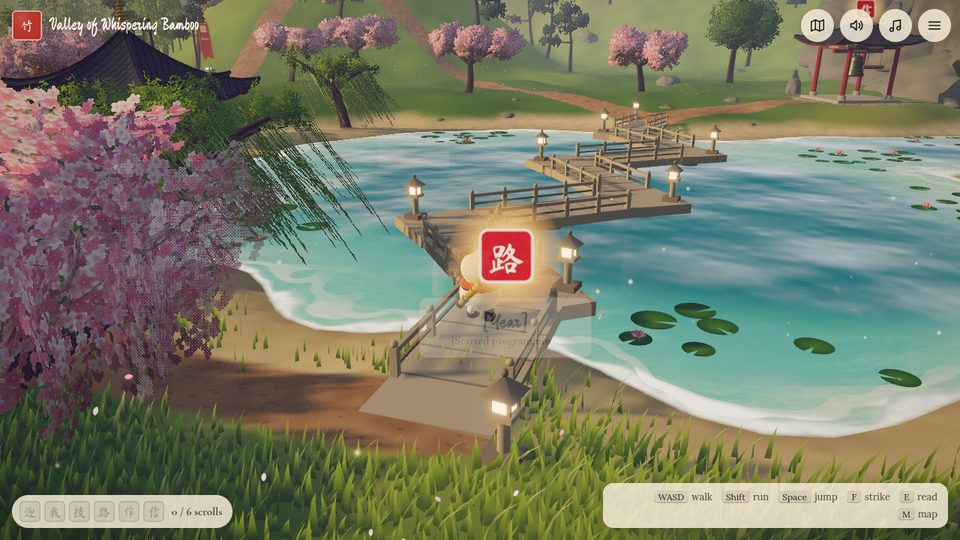
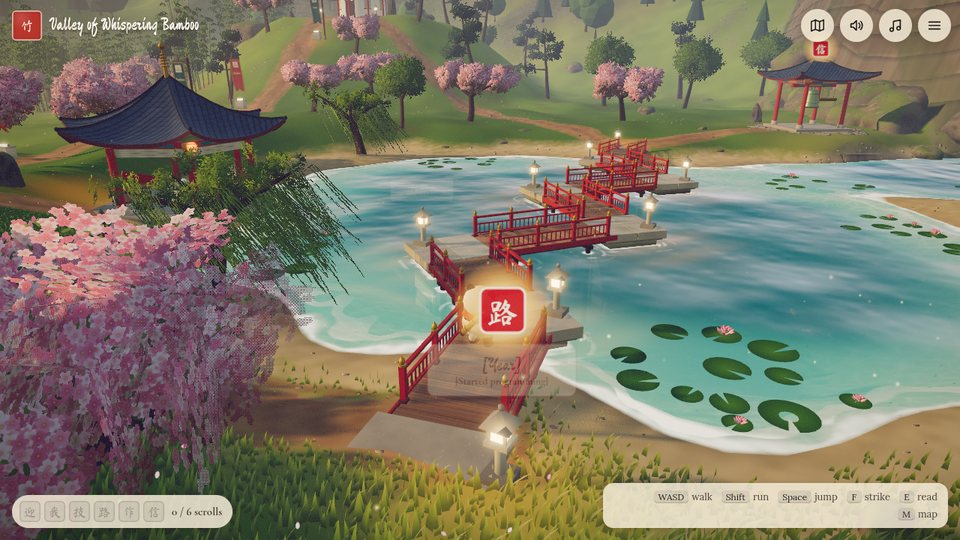
chore(release): v0.6.0
- Changelog, roadmap and design notes for the visual update
- README: new intro and screenshots (bridge, pagoda, falls, bamboo,
  scroll, map); refreshed link-preview image

diff --git a/docs/DESIGN.md b/docs/DESIGN.md
@@ -33,8 +33,10 @@ saturated but gentle colours, and rounded, friendly shapes.
 | Grass        | base `#3f6b2a` → mid `#6f9a3a` → sunlit tip `#b7c95a`                                                        |
 | Paths        | dirt `#b89468`, shore sand `#cdb58c`                                                                         |
 | Blossoms     | `#f6b7c8`, `#f19bb4`, `#fbd3dd`, bark `#5b3d2e`                                                              |
-| Bamboo       | `#7ea449`, `#5d8a3a`, nodes `#4a6b2c`                                                                        |
+| Bamboo       | green `#62883a` → `#9fbd5a`, golden `#c4a64c` with green grooves `#6c9340`, black `#2e2a2c`, nodes darker    |
 | Architecture | vermilion pillars `#b0322a`, slate tiles `#3d4a57`, glazed teal `#2f7d74`, gold `#d8a93b`, plaster `#efe4cf` |
+| Wood / stone | deck planks `#9a7250`, dark timber `#5a3a28`, dressed stone `#b3a893`, masonry `#8e8574`                     |
+| Lamp light   | paper lanterns `#e0412b` glowing orange, stone lantern windows `#ffd9a0`, light pools `#ff9a45`              |
 | Water        | shallow `#6fc3b8` → deep `#1f5d6b`, foam `#f4f1e6`                                                           |
 | UI           | rice paper `#f3ead6`, ink `#1e1a18`, seal red `#b8352b`                                                      |
 
@@ -43,6 +45,41 @@ Typography: **Ma Shan Zheng** (brush, subset to the glyphs we use) for titles an
 
 All geometry, textures and audio are generated in code. There are no downloaded models,
 images or sound files, which keeps the build tiny and the licensing simple.
+
+### Surfaces and light
+
+- **Finishes.** Every building part is merged into one mesh per material, so the parts
+  carry a per-vertex _finish_: lacquer (soft sheen, brush marks), wood (grain along the
+  part's longest axis), stone (grain, speckles, moss on top) or gilding. The finish is
+  implied by the palette colour (`architecture/palette.ts`) or named explicitly. All parts
+  darken where they meet the ground and grow an algae line just above the lake.
+- **Reflections.** A golden-hour sky is rendered once into a prefiltered environment map
+  (`render/environment.ts`) for lacquer, glazed tiles, gold and the bronze bell only; the
+  rest of the valley keeps its hand-tuned hemisphere light.
+- **Stone.** Rocks are soft convex hulls cut by random planes (bevelled facets), with
+  grooves, strata and moss in their vertex colours and grain, lichen, cracks and wet bases
+  in the rock material. Cliffs are shaded in the terrain shader: strata, ledges, joints,
+  seep stains and derivative bump mapping.
+- **Edges between materials.** Paths and yards are looked up in the splat map with a
+  meandering offset (`GROUND_WARP_GLSL`) shared by the ground, the grass and the flowers,
+  so their ragged edges agree. Verges are trampled and dry; paths have a darker tread and
+  pebbly margins; paving is laid stone by stone and frays at its edge; grass thins out
+  onto the beach.
+- **Lantern light.** Lanterns glow in their own colour with a flicker, halos are one
+  additive point cloud, light pools are painted into the terrain's detail map (and read
+  by the grass and the lake), and on High three real point lights follow the lanterns
+  nearest the panda. The number of lights is fixed at start so a preset change never
+  recompiles shaders.
+- **Bamboo.** Culms are light tubes; node rings, the waxy bloom and the striped grooves of
+  golden bamboo are drawn in the shader from an internode coordinate, so detail costs no
+  triangles.
+
+### Life
+
+Koi and lotus in the lake, petals drifting from the blossom trees, golden motes in the
+light, butterflies over the meadows near the panda (they flee when it comes close),
+dragonflies over the water and a flock of birds circling high above. All of it is
+instanced and animated in shaders, driven by a few dozen transforms per frame.
 
 ## 3. The valley (world layout)
 
@@ -77,6 +114,13 @@ panda looking north. Water level is `y = 0`.
 
 The world is **content driven**: the number of project banners, skill dummies and bridge
 milestones follows `src/content/portfolio.ts`.
+
+**Water.** A stream rises in a spring pool in the north-east hills and crosses the plateau
+in a bed carved into the heightfield (it only ever runs downhill; a unit test checks it),
+then pours over a notch in the cliff. The cliff steps back into a rock alcove there and
+drops straight into a deep plunge pool joined to the lake, so the falls have a visible
+source and land in water. The bridge crosses the lake on timber pile bents and stone
+piers, each ringed with foam.
 
 ## 4. The panda
 
@@ -175,10 +219,10 @@ Target 60 fps on a mid-range laptop (integrated GPU) at the _Medium_ preset.
 | Medium | ≤ 1.5       | 1024²   | 36k          | 2×   | + bloom                         |
 | High   | ≤ 2.0       | 2048²   | 70k          | 4×   | + bloom                         |
 
-The whole valley renders in roughly 170 draw calls: static architecture is merged per
-material, vegetation is instanced and the grass is a single instanced draw.
+The whole valley renders in roughly 200 draw calls: static architecture is merged per
+material, vegetation and wildlife are instanced and the grass is a single instanced draw.
 
-The preset is chosen automatically (mobile → Low, otherwise Medium) and adapts down if
+The preset is chosen automatically (phones → Medium, otherwise High) and adapts down if
 the frame rate stays low. Visitors can override it from the settings menu.
 
 ## 10. Accessibility and reach

diff --git a/CHANGELOG.md b/CHANGELOG.md
@@ -6,6 +6,53 @@ and this project adheres to [Semantic Versioning](https://semver.org/spec/v2.0.0
 
 ## [Unreleased]
 
+## [0.6.0] - 2026-09-30
+
+A visual update: a waterfall with a real source, richer stone, wood and bamboo, warm
+lantern light, softer edges between materials and a little more life in the valley.
+
+### Added
+
+- A stream crosses the plateau from a spring pool in the hills and pours over a notch in
+  the cliff into a deep plunge pool: glassy at the lip, aerated lower down, with a veil of
+  spray, churning white water, foam trails, mist, wet dark rock and hand-placed boulders.
+- Warm lantern light: paper and stone lanterns glow in their own colour with a candle
+  flicker and a soft halo, light pools warm the ground, grass and water around them, and
+  on High a few real lights follow the lanterns nearest the panda.
+- Material finishes for all architecture: lacquer with a soft sheen, wood grain, stone
+  grain with moss, worn gilding, grime where parts meet the ground and an algae line at
+  the water; glazed roof tiles vary tile by tile. A prefiltered golden-hour sky gives
+  glossy surfaces something to reflect.
+- The zig-zag bridge rebuilt in timber: plank decks on pile bents, stone landings on
+  masonry piers, vermilion railings with gilded finials, and foam rings around every post
+  and pier in the water.
+- Bamboo with node rings, a waxy bloom under each node, branches with drooping leaf
+  sprays, papery sheaths, young shoots and fallen leaves; golden bamboo with green
+  grooves frames the gate and black bamboo grows in the village.
+- Butterflies over the meadows (they flutter off when the panda comes close),
+  dragonflies darting over the lake and a flock of birds wheeling above the valley.
+- The map shows the stream, the falls and the bridge.
+- Screenshot angles for close-ups of bamboo, lanterns, rocks, path edges, the bridge,
+  the falls and the butterflies.
+
+### Changed
+
+- High quality is the default on desktop (phones start at Medium); adaptive quality still
+  steps down on slower devices.
+- The follow camera starts higher and farther back with a wider lens, so the panda walks
+  in the lower third with the valley opening up behind it; after the visitor orbits or
+  zooms, it eases back to that framing once the panda walks on.
+- Rocks are chiselled, faceted stones with bevelled edges, strata, moss, lichen, cracks
+  and wet glossy bases instead of smooth noisy blobs; cliffs show layered strata, ledges,
+  joints and seep stains.
+- Paths and yards have meandering, ragged edges with grass growing right up to them, a
+  trampled verge, a compacted tread and scattered pebbles; paving frays stone by stone
+  with moss in the joints; grass thins and dries out down onto the beach.
+
+### Fixed
+
+- Bridge landings could be walked through at their corners.
+
 ## [0.5.1] - 2026-09-30
 
 ### Fixed
@@ -158,7 +205,8 @@ and this project adheres to [Semantic Versioning](https://semver.org/spec/v2.0.0
 - Follow camera with orbit, zoom, look-ahead and cinematic shots.
 - Title screen, screenshot script and unit tests.
 
-[Unreleased]: https://github.com/OWNER/valley-of-whispering-bamboo/compare/v0.5.1...HEAD
+[Unreleased]: https://github.com/OWNER/valley-of-whispering-bamboo/compare/v0.6.0...HEAD
+[0.6.0]: https://github.com/OWNER/valley-of-whispering-bamboo/compare/v0.5.1...v0.6.0
 [0.5.1]: https://github.com/OWNER/valley-of-whispering-bamboo/compare/v0.5.0...v0.5.1
 [0.5.0]: https://github.com/OWNER/valley-of-whispering-bamboo/compare/v0.4.0...v0.5.0
 [0.4.0]: https://github.com/OWNER/valley-of-whispering-bamboo/compare/v0.3.0...v0.4.0

diff --git a/README.md b/README.md
@@ -3,17 +3,19 @@
 ![A painted valley with a pagoda on a hill, a lake with a zig-zag bridge, a waterfall and a village](public/og-image.jpg)
 
 An explorable 3D portfolio. Guide a panda through a misty valley of bamboo groves,
-blossom trees, a koi lake and a hilltop pagoda. Every landmark holds a scroll with a piece
-of the author's story: who they are, what they can do, what they have built and how to
-reach them. Finding a scroll for the first time is a small ceremony: the panda bows, a
+blossom trees, a koi lake fed by a mountain waterfall and a hilltop pagoda, with
+butterflies drifting over the meadows and lanterns glowing in the evening light. Every
+landmark holds a scroll with a piece of the author's story: who they are, what they can
+do, what they have built and how to reach them. Finding a scroll for the first time is a small ceremony: the panda bows, a
 ring of golden ink spreads through the grass, a seal is stamped and the scroll unrolls.
 
 Built with **three.js**, **TypeScript** and hand-written **GLSL**. Every model, texture,
 sound and note of music is generated in code; there are no downloaded assets besides fonts.
 
-| ![The panda crossing the zig-zag bridge over the koi lake](docs/images/bridge.jpg) | ![The panda below the pagoda, next to a project banner](docs/images/pagoda-top.jpg) |
-| ---------------------------------------------------------------------------------- | ----------------------------------------------------------------------------------- |
-| ![The About scroll unrolled over the lake](docs/images/scroll.jpg)                 | ![The ink-wash map with quick travel](docs/images/map.jpg)                          |
+| ![The panda crossing the zig-zag bridge over the koi lake](docs/images/bridge.jpg)     | ![The panda below the pagoda, next to a project banner](docs/images/pagoda-top.jpg) |
+| -------------------------------------------------------------------------------------- | ----------------------------------------------------------------------------------- |
+| ![The waterfall pouring into its plunge pool by the bell tower](docs/images/falls.jpg) | ![Golden and green bamboo by the training grounds](docs/images/grove.jpg)           |
+| ![The About scroll unrolled over the lake](docs/images/scroll.jpg)                     | ![The ink-wash map with quick travel](docs/images/map.jpg)                          |
 
 ## Play
 

diff --git a/docs/ROADMAP.md b/docs/ROADMAP.md
@@ -12,11 +12,15 @@ Versions follow [Semantic Versioning](https://semver.org). While the project is 
 | 0.3.0   | Architecture and landmarks: gate, pagoda, pavilion, village, bridge, bell, training yard | ✅ released  |
 | 0.4.0   | Portfolio zones and scrolls, discovery moments, map with quick travel, procedural audio  | ✅ released  |
 | 0.5.0   | Polish: accessibility, reduced motion, SEO and sharing, performance, mobile              | ✅ released  |
+| 0.6.0   | Visual update: waterfall and stream, stone, wood and bamboo detail, lantern light, life  | ✅ released  |
 | 1.0.0   | Real content filled in, tested on phones, custom domain                                  | ⏳ your turn |
 
 ## Ideas for later
 
-- **Day / night cycle** – lanterns glow, fireflies and crickets at night, stars and moon.
+- **Day / night cycle** – the lanterns already cast warm light; add fireflies and crickets
+  at night, stars and moon.
+- **Level of detail** – simpler bamboo and tree variants far from the camera, instanced
+  halos as quads (point sprites are capped in size on some GPUs).
 - **Weather** – light rain with ripples on the lake and a rainbow afterwards.
 - **Painting mode** – a Kuwahara post-process that turns the valley into an oil painting (key `P`).
 - **Photo mode** – free camera, hide HUD, depth of field, save a screenshot.
